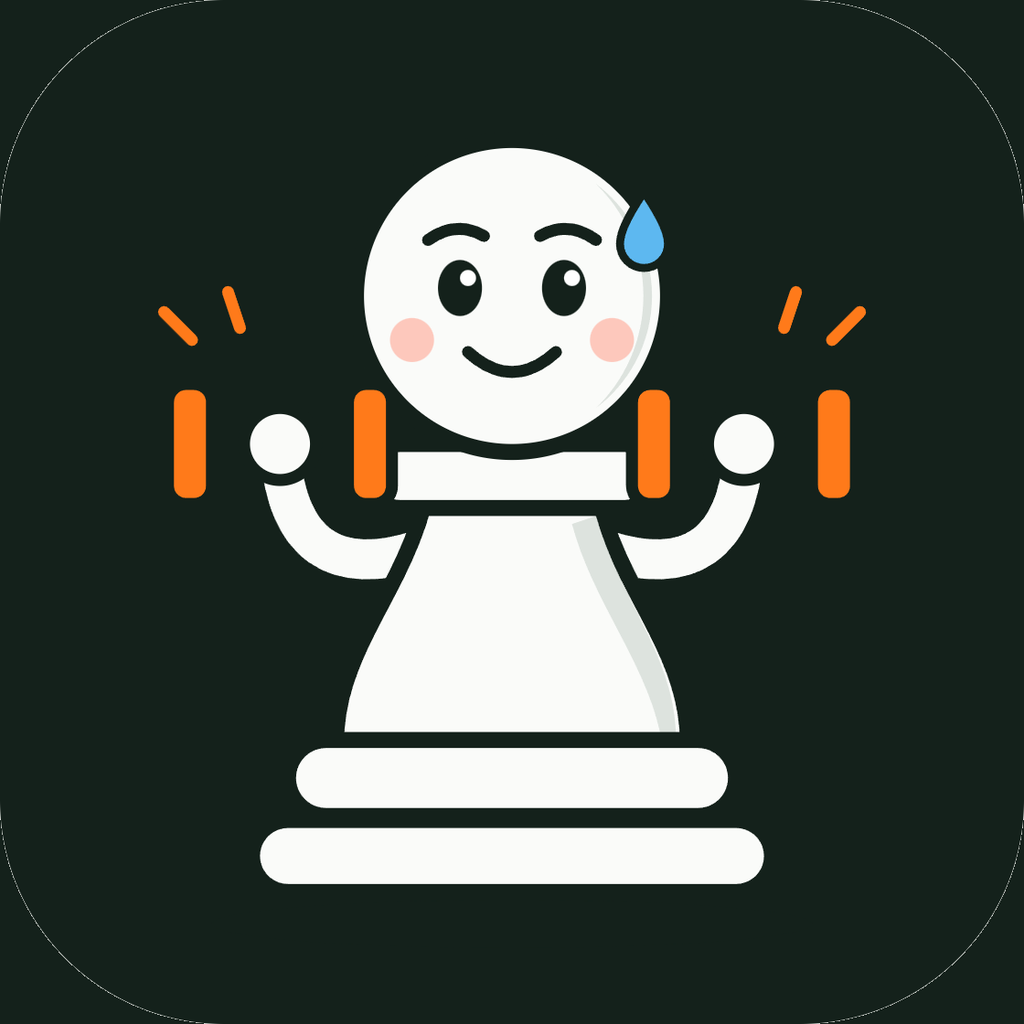
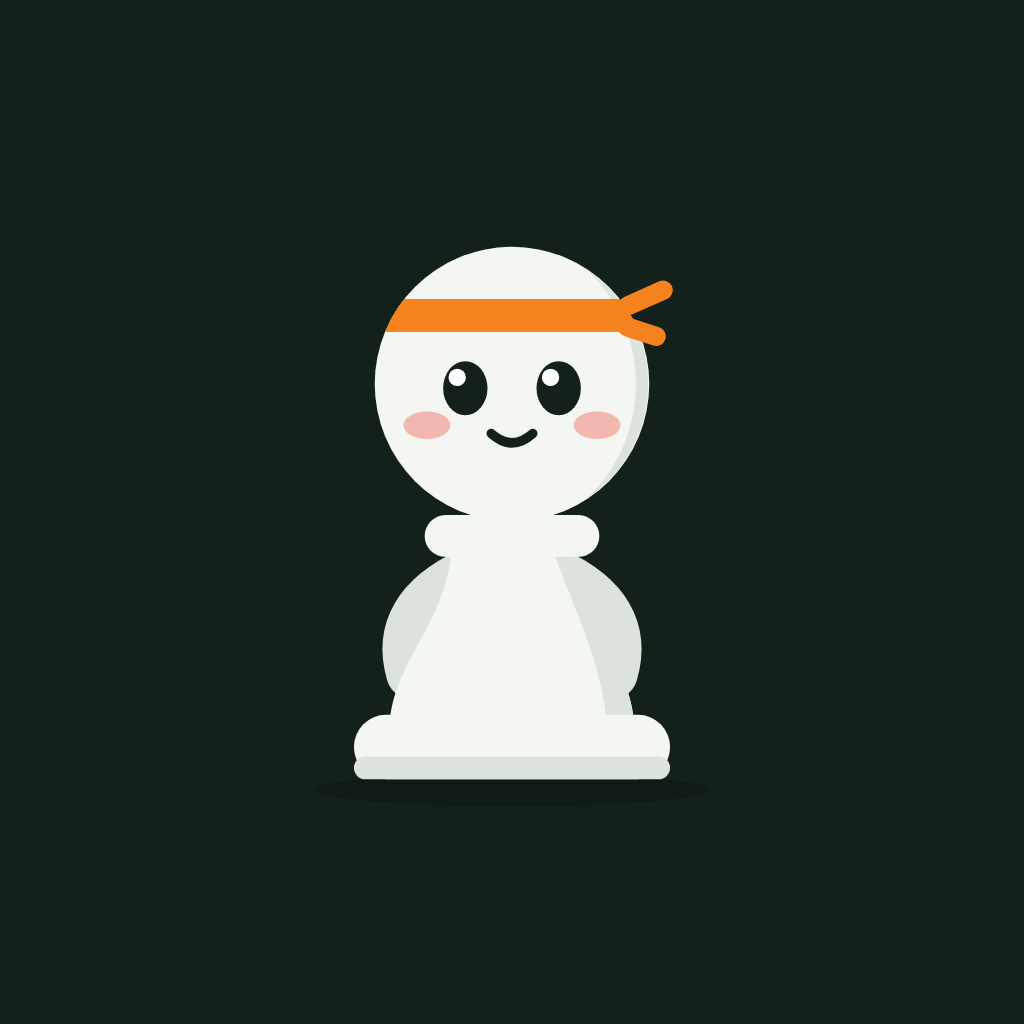
T85-D6 L6 (1/2): ícone B2 e abertura nativa do Android (H-ANI-42/43)

diff --git a/test/config/icone_e_abertura_test.dart b/test/config/icone_e_abertura_test.dart
@@ -1,0 +1,115 @@
+import 'dart:io';
+
+import 'package:flutter_test/flutter_test.dart';
+import 'package:image/image.dart' as img;
+
+/// H-ANI-42 (ícone B2) e H-ANI-43 (abertura nativa): os arquivos e a
+/// configuração do Android.
+void main() {
+  const res = 'android/app/src/main/res';
+
+  group('H-ANI-42 · ícone', () {
+    test('o monocromático tem 1024 px, só branco ou transparente', () {
+      final png = img.decodePng(
+        File('assets/branding/launcher_icon_monochrome.png').readAsBytesSync(),
+      )!;
+      expect(png.width, 1024);
+      expect(png.height, 1024);
+      expect(png.numChannels, 4);
+      var figura = 0;
+      for (final p in png) {
+        if (p.a == 0) continue;
+        figura++;
+        expect([p.r, p.g, p.b], [255, 255, 255]);
+      }
+      expect(figura, greaterThan(1024 * 1024 ~/ 20));
+    });
+
+    test('os PNGs do launcher saem da marca B2', () {
+      final marca = File('assets/branding/launcher_icon.png').readAsBytesSync();
+      final mascote = File('assets/branding/mascote.png').readAsBytesSync();
+      expect(mascote, marca);
+      final fundo = img.decodePng(marca)!;
+      final canto = fundo.getPixel(4, 4);
+      expect([canto.r, canto.g, canto.b], [0x14, 0x21, 0x1B]);
+      final frente = img.decodePng(
+        File('assets/branding/launcher_icon_foreground.png').readAsBytesSync(),
+      )!;
+      expect(frente.numChannels, 4);
+      expect(frente.getPixel(4, 4).a, 0);
+    });
+
+    test('o pubspec liga o monocromático e o fundo #14211B', () {
+      final pubspec = File('pubspec.yaml').readAsStringSync();
+      expect(pubspec, contains('adaptive_icon_background: "#14211B"'));
+      expect(
+        pubspec,
+        contains(
+          'adaptive_icon_monochrome: assets/branding/launcher_icon_monochrome.png',
+        ),
+      );
+      final adaptativo = File(
+        '$res/mipmap-anydpi-v26/ic_launcher.xml',
+      ).readAsStringSync();
+      expect(adaptativo, contains('<monochrome'));
+    });
+
+    test('o mascote antigo saiu de lib e do pubspec', () {
+      final achados = <String>[];
+      for (final f in [
+        ...Directory('lib').listSync(recursive: true).whereType<File>(),
+        File('pubspec.yaml'),
+      ]) {
+        if (!f.path.endsWith('.dart') && !f.path.endsWith('.yaml')) continue;
+        if (RegExp('mascot_(light|dark)').hasMatch(f.readAsStringSync())) {
+          achados.add(f.path);
+        }
+      }
+      expect(achados, isEmpty, reason: achados.join('\n'));
+    });
+  });
+
+  group('H-ANI-43 · abertura nativa', () {
+    test('Android 12+: fundo, peão animado e 500 ms', () {
+      final estilo = File('$res/values-v31/styles.xml').readAsStringSync();
+      String item(String nome) => RegExp(
+        '<item name="android:$nome">([^<]+)</item>',
+      ).firstMatch(estilo)!.group(1)!.trim();
+      expect(item('windowSplashScreenBackground').toUpperCase(), contains('14211B'));
+      expect(
+        item('windowSplashScreenAnimatedIcon'),
+        '@drawable/abertura_peao',
+      );
+      expect(item('windowSplashScreenAnimationDuration'), '500');
+    });
+
+    test('o peão é um animated-vector: escala 0,6 → 1,06 → 1, opacidade 0 → 1', () {
+      final peao = File('$res/drawable/abertura_peao.xml').readAsStringSync();
+      expect(peao, contains('<animated-vector'));
+      final escalas = RegExp(
+        r'android:propertyName="scaleX"[^>]*android:valueFrom="([\d.]+)"[^>]*android:valueTo="([\d.]+)"',
+      ).allMatches(peao).map((m) => '${m[1]}>${m[2]}').toList();
+      expect(escalas, ['0.6>1.06', '1.06>1']);
+      expect(
+        RegExp(r'android:propertyName="scaleY"').allMatches(peao).length,
+        2,
+      );
+      expect(
+        peao,
+        matches(
+          RegExp(
+            r'android:propertyName="alpha"[^>]*android:valueFrom="0"[^>]*android:valueTo="1"',
+          ),
+        ),
+      );
+    });
+
+    test('Android 11 e anteriores: launch_background #14211B', () {
+      for (final pasta in ['values', 'values-night']) {
+        final cor = File('$res/$pasta/launch_colors.xml').readAsStringSync();
+        expect(cor, contains('#14211B'), reason: pasta);
+        expect(cor, isNot(contains('F5F7F4')), reason: pasta);
+      }
+    });
+  });
+}

diff --git a/lib/ui/settings/widgets/about_screen.dart b/lib/ui/settings/widgets/about_screen.dart
@@ -68,13 +68,12 @@ class AboutScreen extends StatelessWidget {
             padding: const EdgeInsets.all(AppSpacing.xl),
             child: Column(
               children: [
-                // O mascote do app, na versão do tema.
+                // O mascote do app: o ícone B2, com o fundo escuro (a figura
+                // clara sumiria no fundo da tela).
                 ClipRRect(
                   borderRadius: BorderRadius.circular(AppShape.large),
                   child: Image.asset(
-                    theme.brightness == Brightness.dark
-                        ? 'assets/branding/mascot_dark.png'
-                        : 'assets/branding/mascot_light.png',
+                    'assets/branding/mascote.png',
                     width: 96,
                     height: 96,
                   ),

diff --git a/test/ui/settings/widgets/about_screen_test.dart b/test/ui/settings/widgets/about_screen_test.dart
@@ -95,6 +95,16 @@ void main() {
     });
   });
 
+  testWidgets('H-ANI-42 · o mascote é o ícone B2', (tester) async {
+    await pumpAbout(tester);
+    final imagens = tester
+        .widgetList<Image>(find.byType(Image))
+        .map((i) => i.image)
+        .whereType<AssetImage>()
+        .map((a) => a.assetName);
+    expect(imagens, contains('assets/branding/mascote.png'));
+  });
+
   group('H-AJU-14 · folhas dos Termos e da Política', () {
     Future<void> scrollToEnd(WidgetTester tester) async {
       for (var i = 0; i < 60; i++) {
